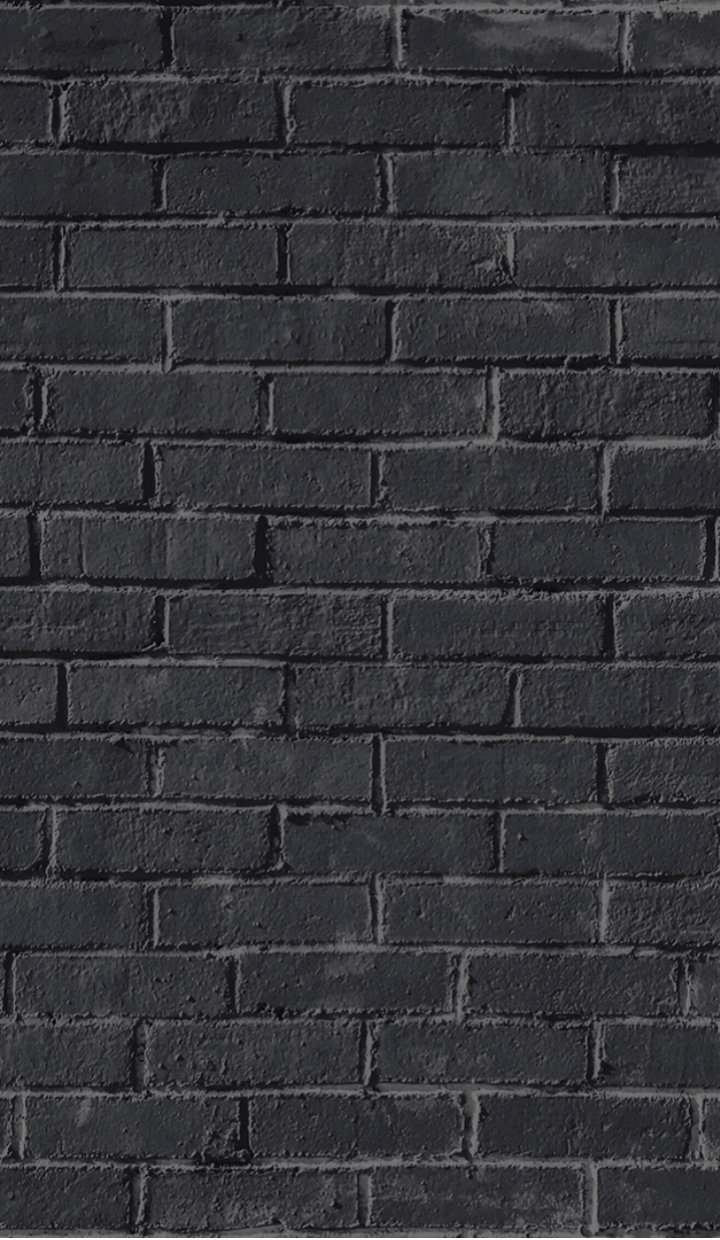
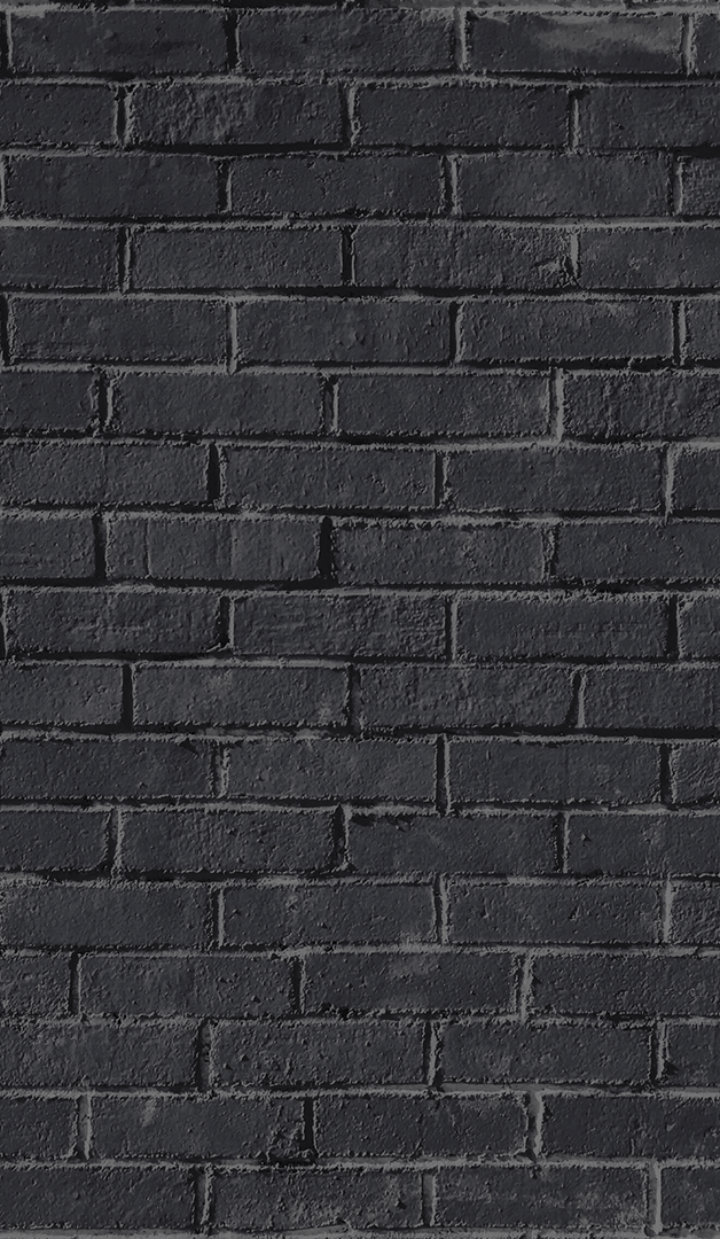
배경 이미지 용량 변경

Changed region(s): [[0.0, 0.0, 1.0, 1.0]]

diff --git a/pters_project/static/user/js/main/main_trainer.js b/pters_project/static/user/js/main/main_trainer.js
@@ -53,13 +53,13 @@ $(document).ready(function(){
 	var bodywidth = $('body').width()
 	if(class_name == "발레"){
 		if(bodywidth>600){
-			$('body').css('background-image', 'url("/static/user/res/main/bg-image-ballet-pc.png")')
+			$('body').css('background-image', 'url("/static/user/res/main/bg-image-ballet-pc.jpg")')
 		}else{
 			$('body').css('background-image', 'url("/static/user/res/main/bg-image-ballet-mobile.jpg")')
 		}
 	}else if(class_name == "요가"){
 		if(bodywidth>600){
-			$('body').css('background-image', 'url("/static/user/res/main/bg-image-yoga-pc.png")')
+			$('body').css('background-image', 'url("/static/user/res/main/bg-image-yoga-pc.jpg")')
 		}else{
 			$('body').css('background-image', 'url("/static/user/res/main/bg-image-yoga-mobile.jpg")')
 		}
@@ -67,11 +67,11 @@ $(document).ready(function(){
 		if(bodywidth>600){
 			$('body').css('background-image', 'url("/static/user/res/main/bg-image-pc.jpg")')
 		}else{
-			$('body').css('background-image', 'url("/static/user/res/main/bg-image.png")')
+			$('body').css('background-image', 'url("/static/user/res/main/bg-image.jpg")')
 		}
 	}else{
 		if(bodywidth>600){
-			$('body').css('background-image', 'url("/static/user/res/main/bg-image-brick-pc.png")')
+			$('body').css('background-image', 'url("/static/user/res/main/bg-image-brick-pc.jpg")')
 		}else{
 			$('body').css('background-image', 'url("/static/user/res/main/bg-image-brick-mobile.jpg")')
 		}

diff --git a/pters_project/login/templates/login.html b/pters_project/login/templates/login.html
@@ -145,7 +145,7 @@
             <div class="main_title_down">
                 <p>일정 관리는 쉽고 빨라지고, 회원의 만족도는 높아집니다.</p>
             </div>
-            <button onclick="goPage(0)">가입하기</button>\
+            <button onclick="goPage(0)">가입하기</button>
             <p style="font-size:13px;margin-top: 10px;color:#f4f4f4;">피터스는 누구에게나 무료입니다.</p>
         </div>
 
